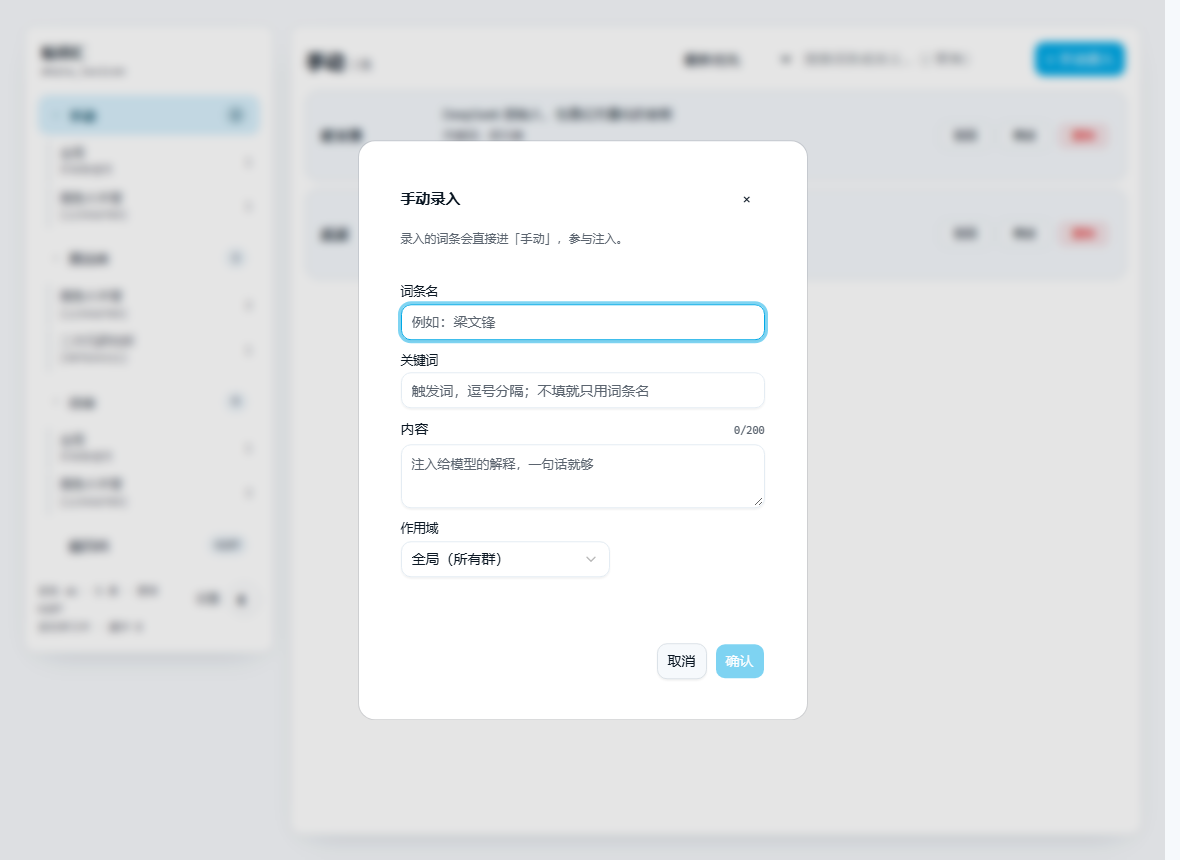
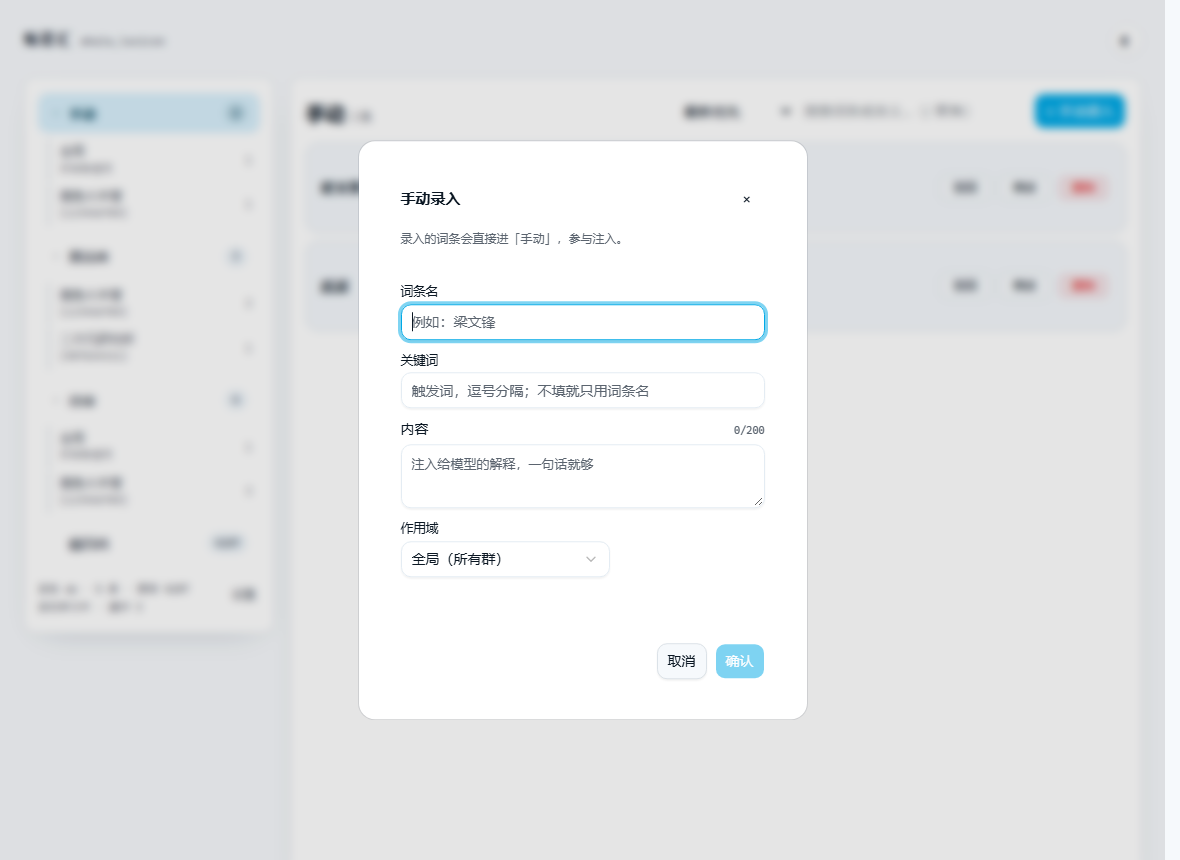
feat(panel): 主题按钮移到右上角，与主面板头部对齐
- 顶部加 .head：左边「鲸语汇 whale_lexicon」，右边主题切换
- 侧栏去掉重复标题和底部主题小钮，只留设置
- 主题切换同步 .dark 类，和主面板保持同一份 localStorage
- 条目操作按钮的配色交回 Basecoat（审核=主色、修改=描边、删除=危险色）
- 截图按新布局重拍

diff --git a/pages/index.html b/pages/index.html
@@ -14,6 +14,7 @@
       var prefersDark = window.matchMedia && window.matchMedia("(prefers-color-scheme: dark)").matches;
       var theme = query === "dark" || query === "light" ? query : saved || (prefersDark ? "dark" : "light");
       document.documentElement.setAttribute("data-theme", theme);
+      document.documentElement.classList.toggle("dark", theme === "dark");
     } catch (error) {}
   })();
 </script>
@@ -40,20 +41,6 @@
 
 /* ---------- 左栏 ---------- */
 .split-side { padding: 16px 14px; gap: 12px; position: sticky; top: 24px; }
-.side-title {
-  margin: 2px 4px 4px;
-  font-size: 15px;
-  font-weight: 650;
-  line-height: 1.3;
-}
-.side-title small {
-  display: block;
-  margin-top: 2px;
-  font-family: var(--mono);
-  font-size: 11px;
-  font-weight: 400;
-  color: var(--muted-foreground);
-}
 
 .nav-list { display: grid; gap: 4px; }
 .nav-item {
@@ -217,20 +204,8 @@
   overflow: hidden;
 }
 .entry-ops { display: grid; grid-template-columns: repeat(3, minmax(0, 1fr)); gap: 6px; }
-.entry-ops .btn {
-  height: 28px;
-  padding: 0 2px;
-  font-size: 11.5px;
-  border-radius: 8px;
-  box-shadow: none;
-  white-space: nowrap;
-}
-.entry-ops .btn.on {
-  background: color-mix(in oklab, var(--success) 14%, var(--card));
-  border-color: color-mix(in oklab, var(--success) 38%, var(--border));
-  color: color-mix(in oklab, var(--success) 55%, var(--foreground));
-}
-.entry-ops .btn.armed { background: var(--destructive); border-color: transparent; color: #fff; }
+/* 外观（变体色、圆角、阴影）全交给 Basecoat 的 .btn，这里只管塞进窄格子 */
+.entry-ops .btn { padding-inline: 2px; font-size: 11.5px; white-space: nowrap; }
 .entry.is-wiki .entry-ops .btn { grid-column: 1 / -1; }
 
 .empty { padding: 56px 20px; border: 1px dashed var(--border); border-radius: var(--radius); color: var(--muted-foreground); font-size: 13px; text-align: center; }
@@ -294,16 +269,24 @@
 </head>
 <body>
 <div class="page">
+  <header class="head">
+    <div class="brand">
+      <span class="brand-name">鲸语汇</span>
+      <span class="brand-ver">whale_lexicon</span>
+    </div>
+    <div class="head-right">
+      <button class="icon-btn" id="theme" type="button" aria-label="切换主题">◐</button>
+    </div>
+  </header>
+
   <div class="split-layout">
 
     <aside class="split-side">
-      <h1 class="side-title">鲸语汇<small>whale_lexicon</small></h1>
       <div class="nav-list" id="nav"></div>
       <div class="side-foot">
         <div class="side-diag" id="diag">读取中…</div>
         <div class="side-tools">
           <button class="side-link" id="settingsBtn" type="button">设置</button>
-          <button class="icon-btn" id="theme" type="button" aria-label="切换主题">◐</button>
         </div>
       </div>
     </aside>
@@ -671,7 +654,7 @@ function entryHTML(item) {
       <p class="entry-meta">${meta}</p>
     </div>
     <div class="entry-ops">
-      <button class="btn" data-size="sm" data-variant="${pending ? "default" : "outline"}" type="button" data-act="approve">${pending ? "审核" : "驳回"}</button>
+      <button class="btn" data-size="sm"${pending ? "" : ` data-variant="outline"`} type="button" data-act="approve">${pending ? "审核" : "驳回"}</button>
       <button class="btn" data-variant="outline" data-size="sm" type="button" data-act="edit">修改</button>
       <button class="btn" data-variant="destructive" data-size="sm" type="button" data-act="del">删除</button>
     </div>
@@ -1167,6 +1150,7 @@ $("theme").addEventListener("click", () => {
   const html = document.documentElement;
   const next = html.getAttribute("data-theme") === "dark" ? "light" : "dark";
   html.setAttribute("data-theme", next);
+  html.classList.toggle("dark", next === "dark");
   try { localStorage.setItem("qqbotlite-theme", next); } catch (error) {}
 });
 
